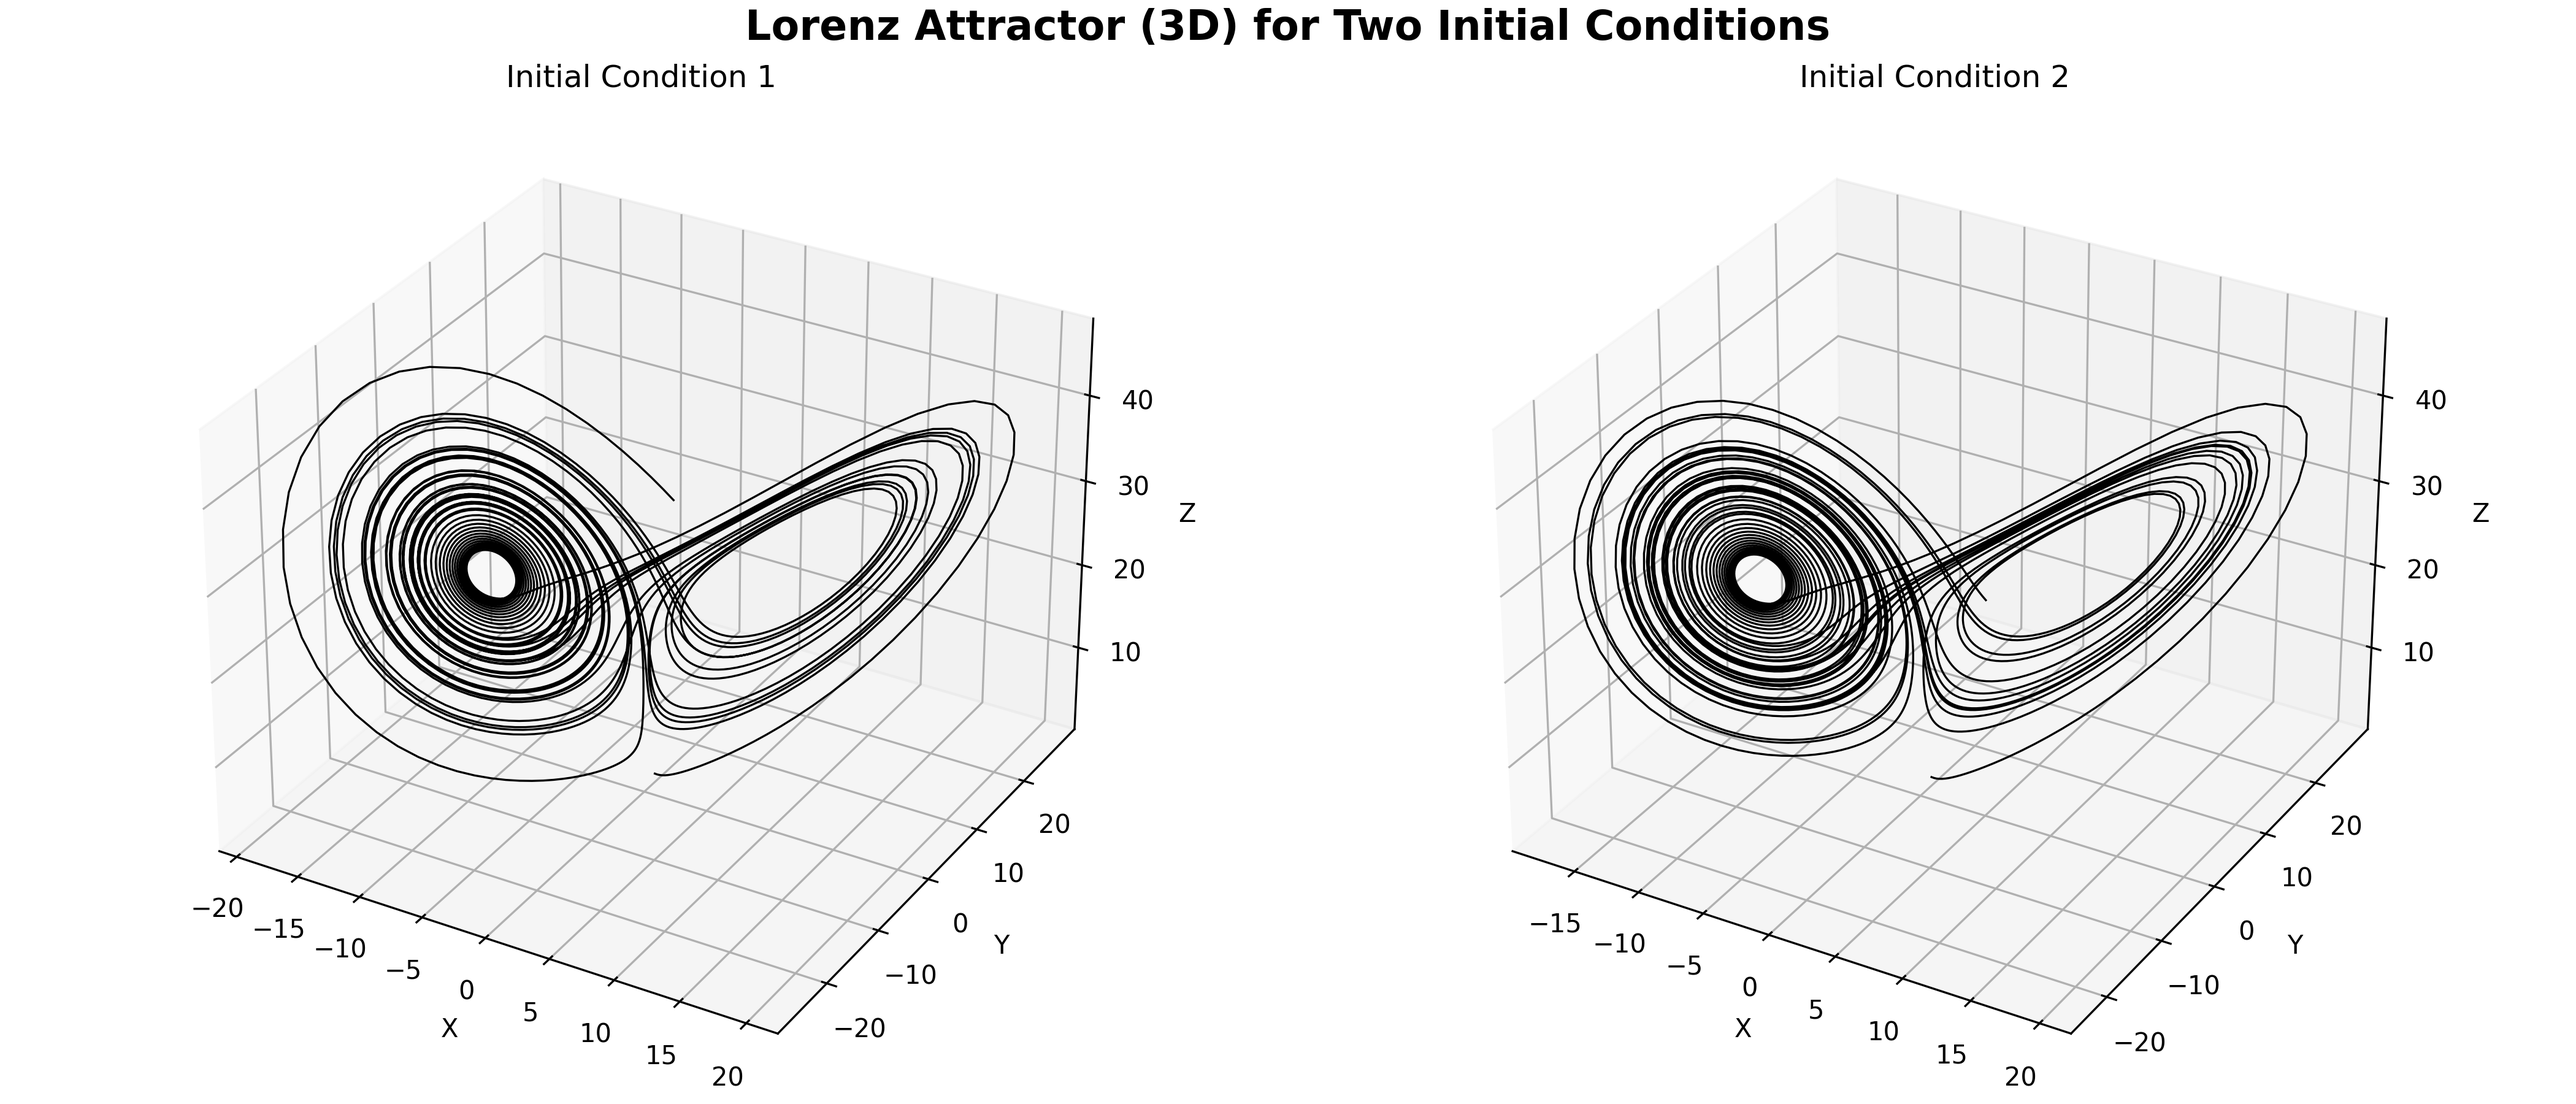
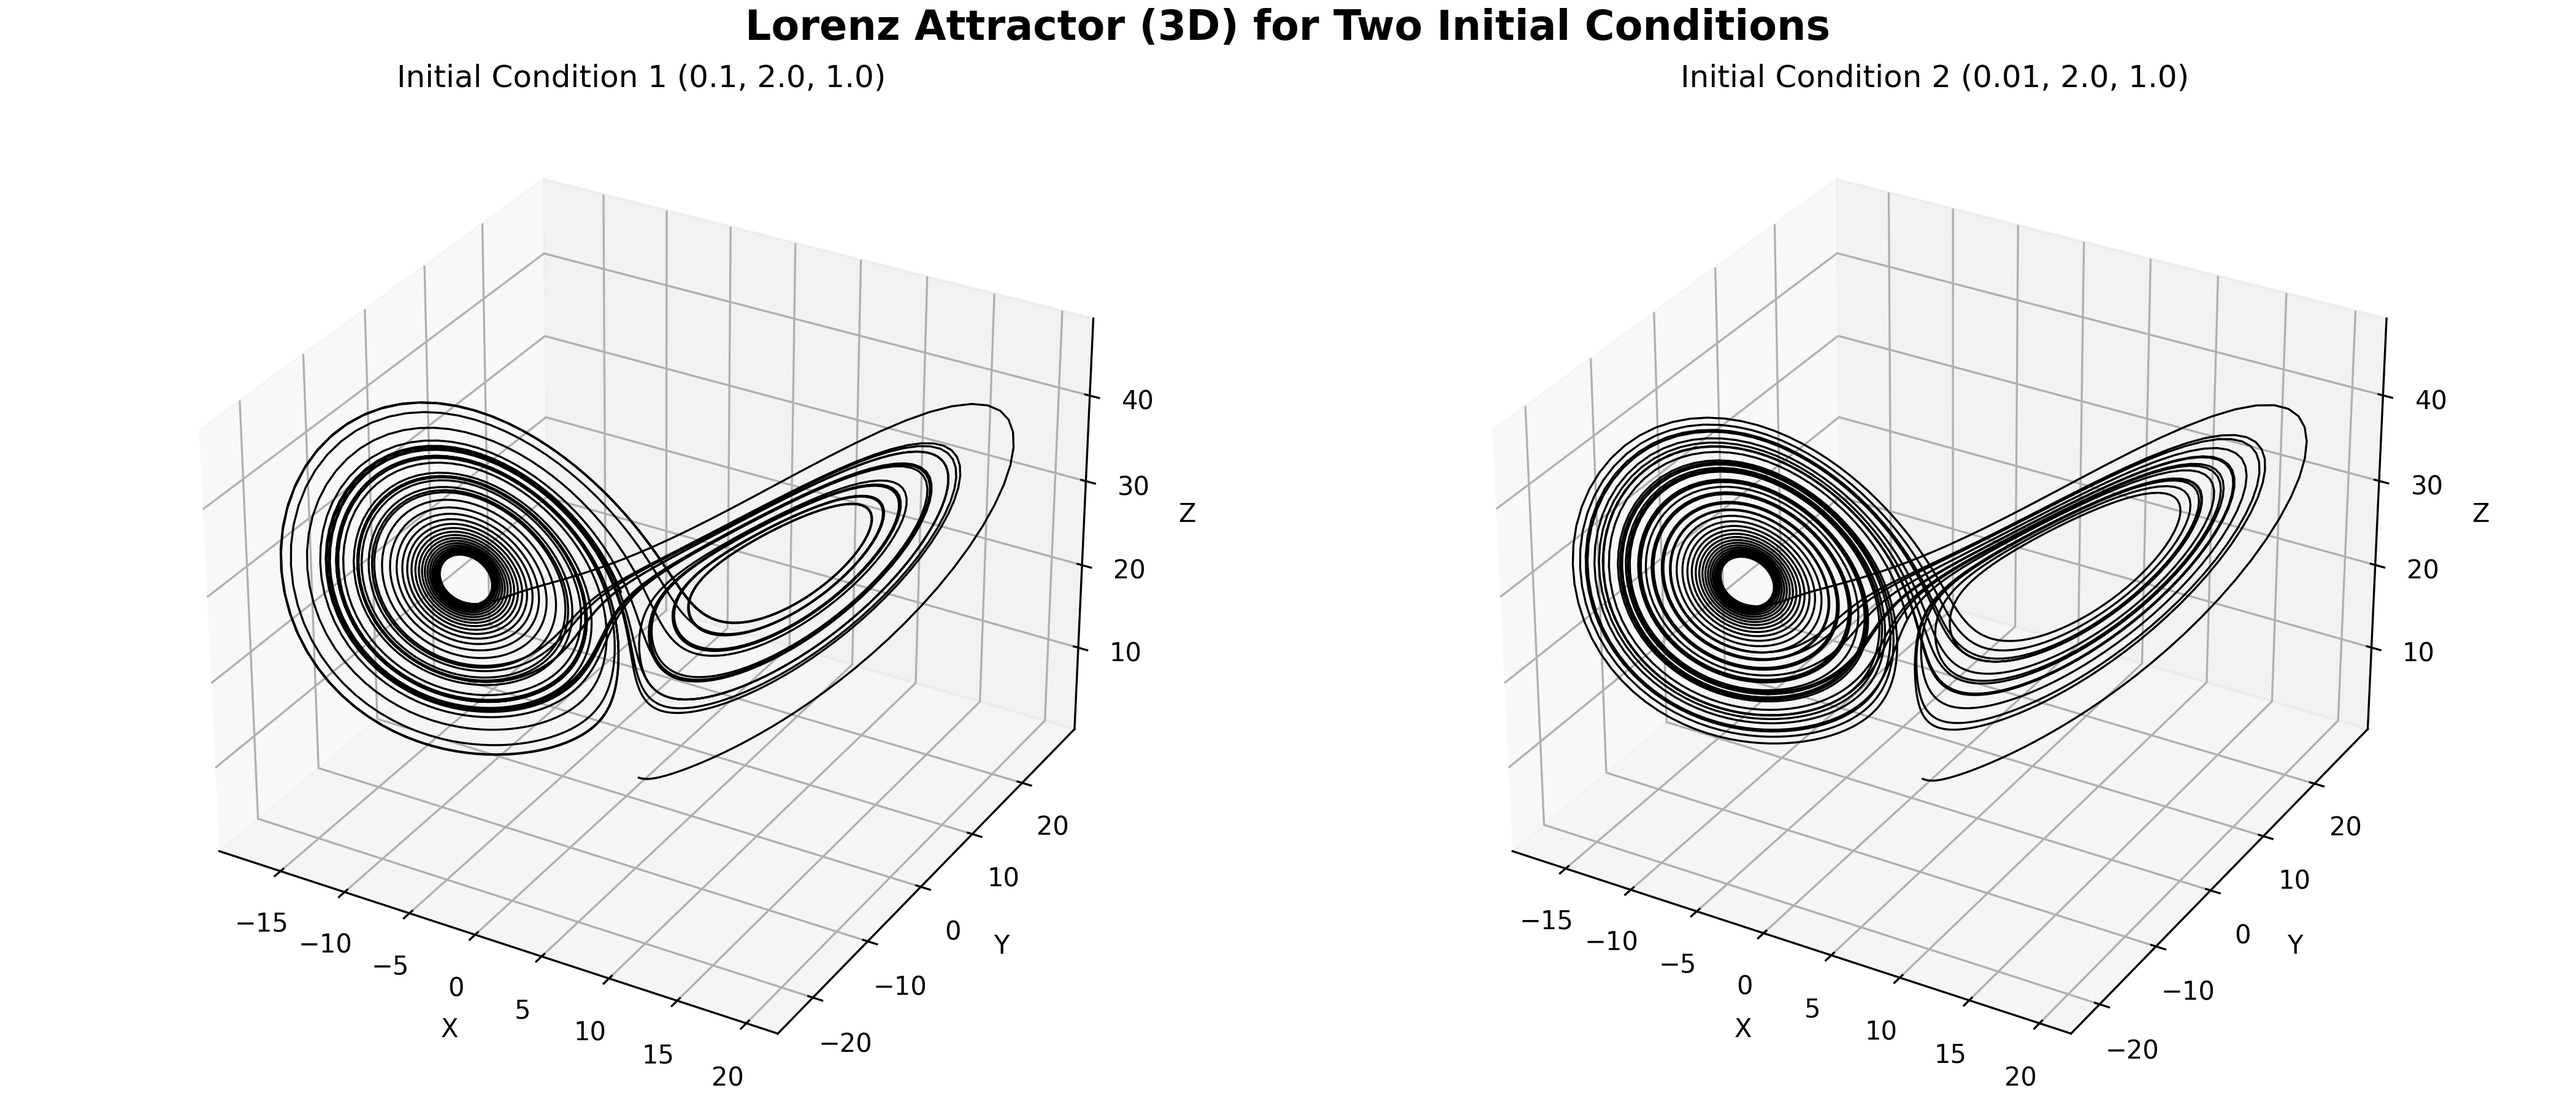
added image

diff --git a/1.2.1/two_diff_inial_cond.py b/1.2.1/two_diff_inial_cond.py
@@ -23,12 +23,12 @@ def rk4_integration(func, state0, dt, steps):
 
 # Parameters
 initial_conditions = [
-    np.array([0.01, 2.0, 1.0]),
-    np.array([0.001, 2.0, 1.0])  # slightly perturbed
+    np.array([0.1, 2.0, 1.0]),
+    np.array([0.01, 2.0, 1.0])  # slightly perturbed
 ]
-labels = ["Initial Condition 1", "Initial Condition 2"]
+labels = ["Initial Condition 1 (0.1, 2.0, 1.0)", "Initial Condition 2 (0.01, 2.0, 1.0)"]
 tmax = 40.0
-dt = 0.01
+dt = 0.0073
 steps = int(tmax / dt)
 t = np.linspace(0, tmax, steps)
 
@@ -36,15 +36,15 @@ t = np.linspace(0, tmax, steps)
 trajectories = [rk4_integration(lorenz, ic, dt, steps) for ic in initial_conditions]
 
 # Plot 2D phase space (x vs z) - separate subplots
-fig2d, axs2d = plt.subplots(1, 2, figsize=(14, 6), constrained_layout=True)
-fig2d.suptitle("Lorenz Attractor: x vs z for Two Initial Conditions", fontsize=16, weight='bold')
-for i, ax in enumerate(axs2d):
-    ax.plot(trajectories[i][:, 0], trajectories[i][:, 2], color='black', lw=0.8)
-    ax.set_title(labels[i], fontsize=12)
-    ax.set_xlabel("x")
-    ax.set_ylabel("z")
-    ax.grid(True, linestyle='--', alpha=0.5)
-fig2d.savefig("1.1.4/images/two_initial_conditions_xz_separate.png", dpi=300)
+# fig2d, axs2d = plt.subplots(1, 2, figsize=(14, 6), constrained_layout=True)
+# fig2d.suptitle("Lorenz Attractor: x vs z for Two Initial Conditions", fontsize=16, weight='bold')
+# for i, ax in enumerate(axs2d):
+#     ax.plot(trajectories[i][:, 0], trajectories[i][:, 2], color='black', lw=0.8)
+#     ax.set_title(labels[i], fontsize=12)
+#     ax.set_xlabel("x")
+#     ax.set_ylabel("z")
+#     ax.grid(True, linestyle='--', alpha=0.5)
+# fig2d.savefig("1.1.4/images/two_initial_conditions_xz_separate.png", dpi=300)
 plt.show()
 
 # Plot 3D phase space - separate subplots

diff --git a/1.2.1/optuna_1.2.py b/1.2.1/optuna_1.2.py
@@ -2,7 +2,6 @@ import numpy as np
 import optuna
 import matplotlib.pyplot as plt
 import time
-from mpl_toolkits.mplot3d import Axes3D  # For 3D plotting
 
 # Lorenz system parameters
 sigma = 10.0
